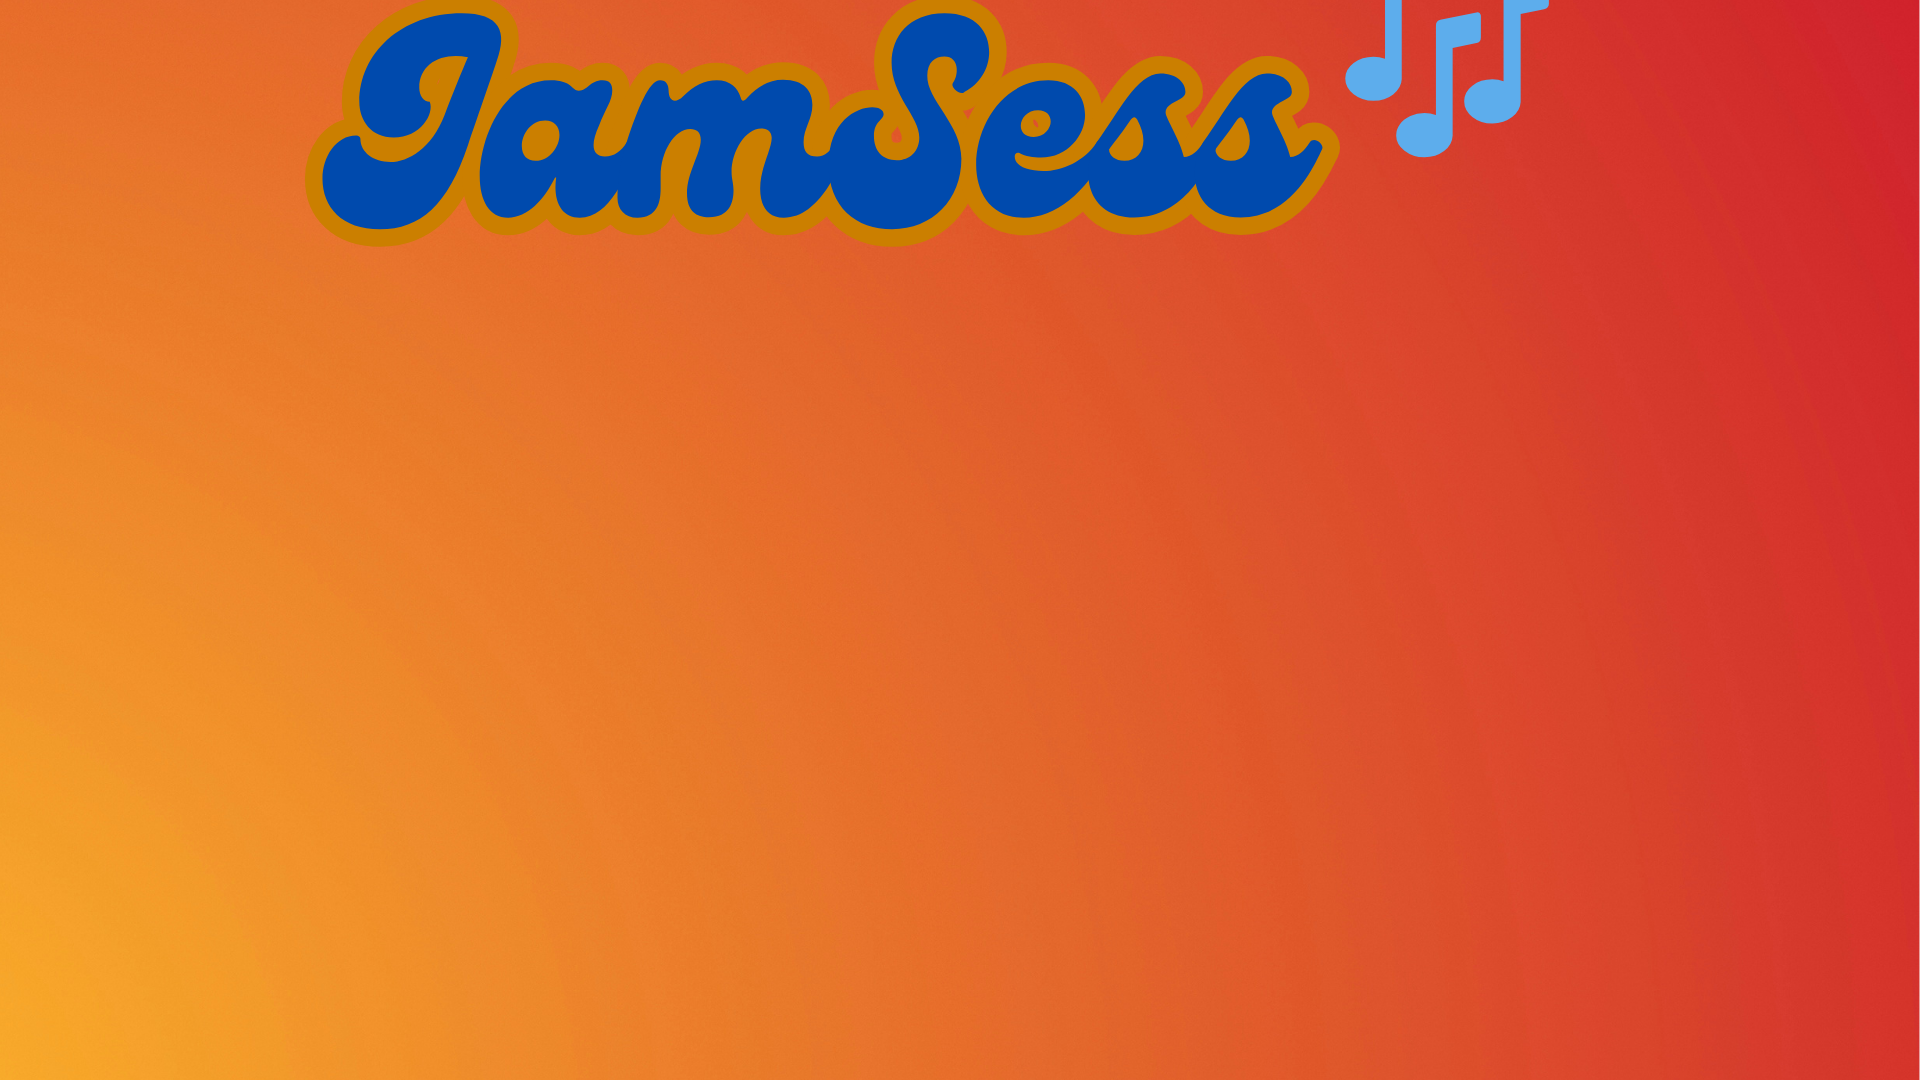
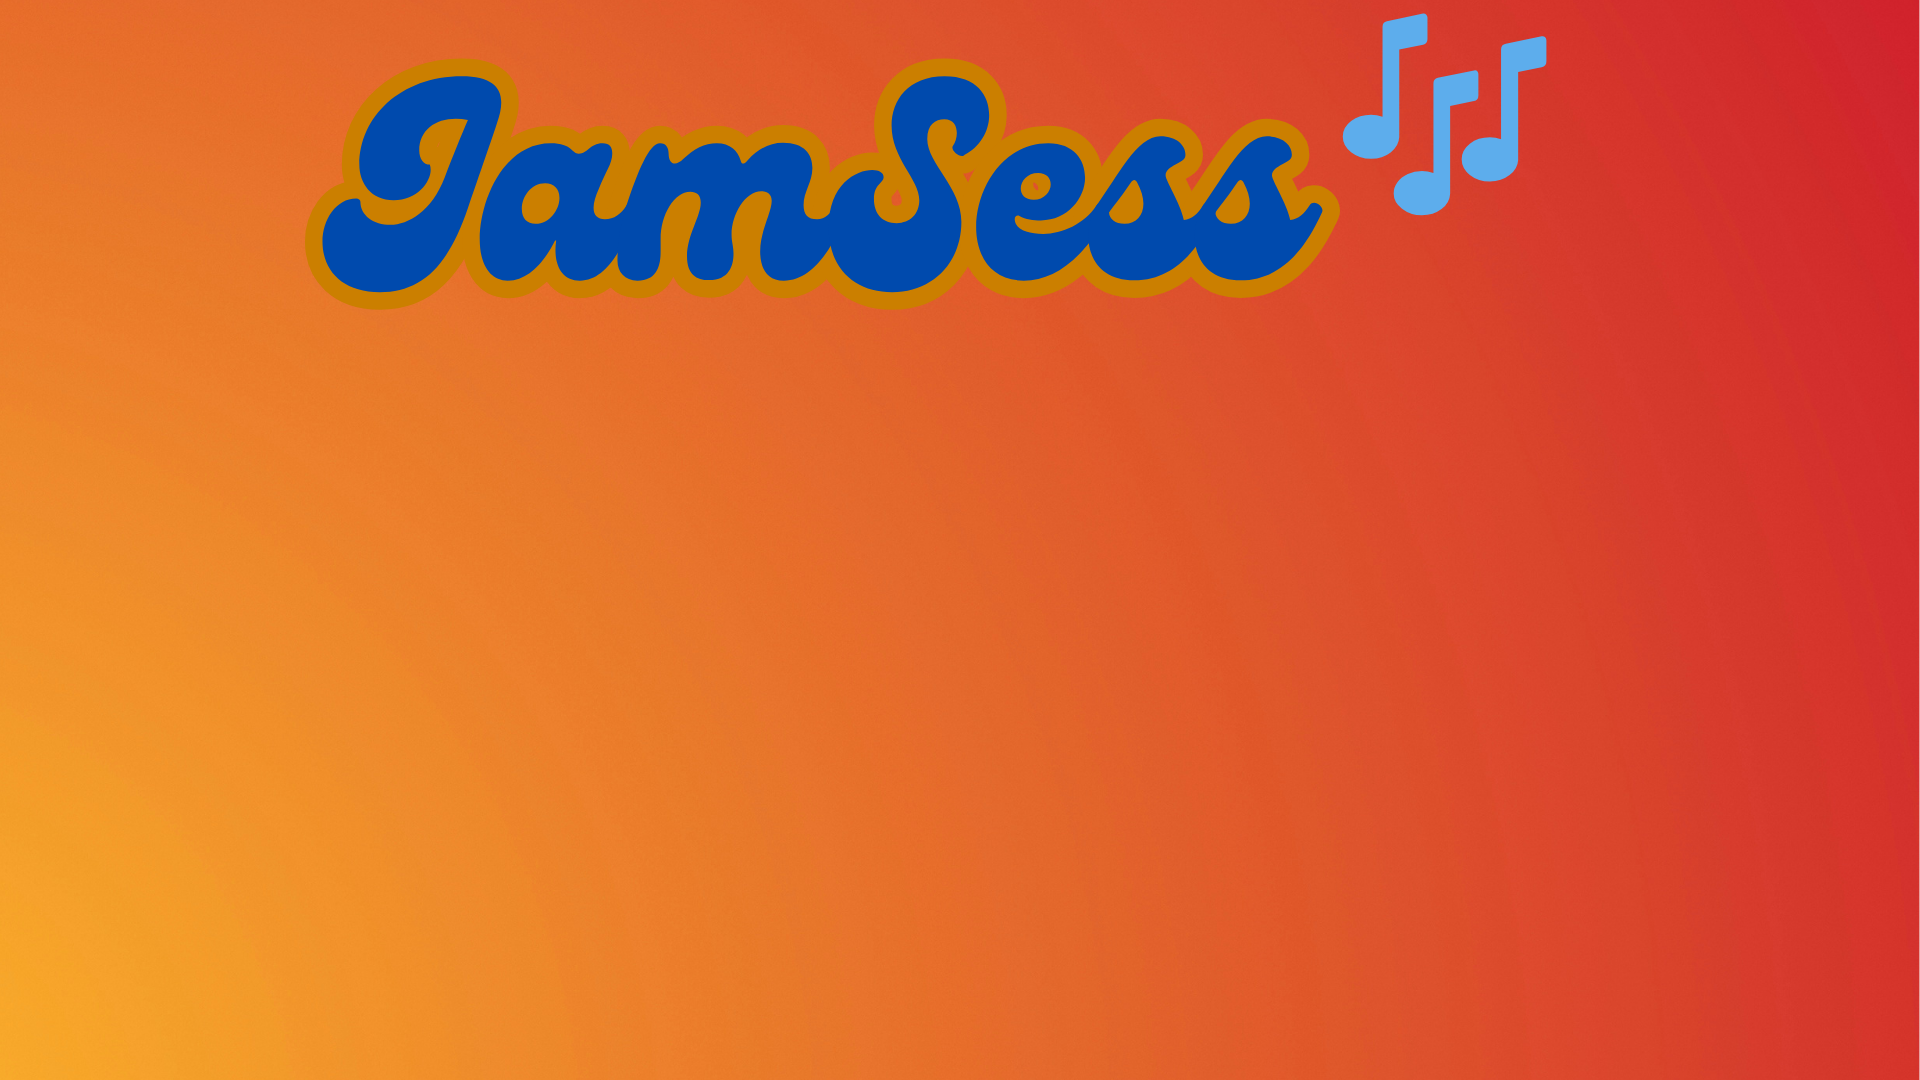
background file changed

Changed region(s): [[0.1562, 0.0, 0.8125, 0.3056]]

diff --git a/src/css/App.css b/src/css/App.css
@@ -1,7 +1,9 @@
 body{
-  background-image: url('/src/images/luke-chesser-tgrBcf7S_dY-unsplash.jpg');
+  background-image: url('/src/JamSess-background.png');
   background-size: cover;
   background-repeat: no-repeat;
+  background-attachment: fixed;
+  background-position: center;
   color:#0b454d;
 }
 
@@ -10,6 +12,9 @@ h1{
   font-size: 3.5rem;
 }
 
+.BannerContainer{
+  height: 180px;
+}
 
 .MainContainer{
   display: flex;
@@ -52,7 +57,8 @@ footer{
   padding: 2px;
   color: #0000;
   font-weight: 600;
-  
+  margin-top: 10px;
+  margin-bottom: 10px;
 }
 
 ul{

diff --git a/src/components/App.js b/src/components/App.js
@@ -50,14 +50,8 @@ function App() {
   return (
     <div className="App">
       <header>
-        <img src= "../JamSess.png" alt="JamSess logo" />
-        <h1>JamSess</h1>
       </header>
       <div className="BannerContainer">
-        <h2>
-          
-          Your music destination!
-        </h2>
       </div>
 
       <div className="SearchContainer">

diff --git a/src/util/Spotify.js b/src/util/Spotify.js
@@ -1,7 +1,4 @@
-import { ToastContainer, toast } from 'react-toastify';
-import 'react-toastify/dist/ReactToastify.css';
-
-const clientId = "06a9a154ff0a4cf69e2a6ded5835ab4e"; //client id from spotify
+const clientId='06a9a154ff0a4cf69e2a6ded5835ab4e';
 const redirectUri = 'http://localhost:3000';
 let accessToken;
  

diff --git a/src/components/SearchResults.js b/src/components/SearchResults.js
@@ -6,7 +6,7 @@ const SearchResults = (props) => {
 
   return (
     <div className="SearchResults">
-      <h2>Matching results:</h2>
+      {props.searchResults.length > 0 && <h2>Matching results:</h2>}
       <Tracklist tracks={props.searchResults} onAdd={props.onAdd} />
     </div>
   );

diff --git a/README.md b/README.md
@@ -4,10 +4,10 @@
 
 ### Description
 
-JamSess is a serverless web application that allows users to search for songs, albums, and artists using the Spotify API. Users can add or remove a song to a playlist that can be saved to their Spotify account. The application is built using React, uses the Spotify API and deployed on Netlify.
+JamSess is a web application that allows users to search for songs, albums, and artists using the Spotify API. Users can add or remove a song to a playlist that can be saved to their Spotify account. The application is built using React, uses the Spotify API and deployed on Netlify.
 
 For a running version of the app, visit [JamSess](https://jamsess.netlify.app/).
-Please note this app is currently under development. While V0 is completed and fully functional, V1 with additional features is in progress.
+Please note this app is currently under development. While V0 is functional, V1 with additional features is in progress.
 
 ### Getting Started
 
